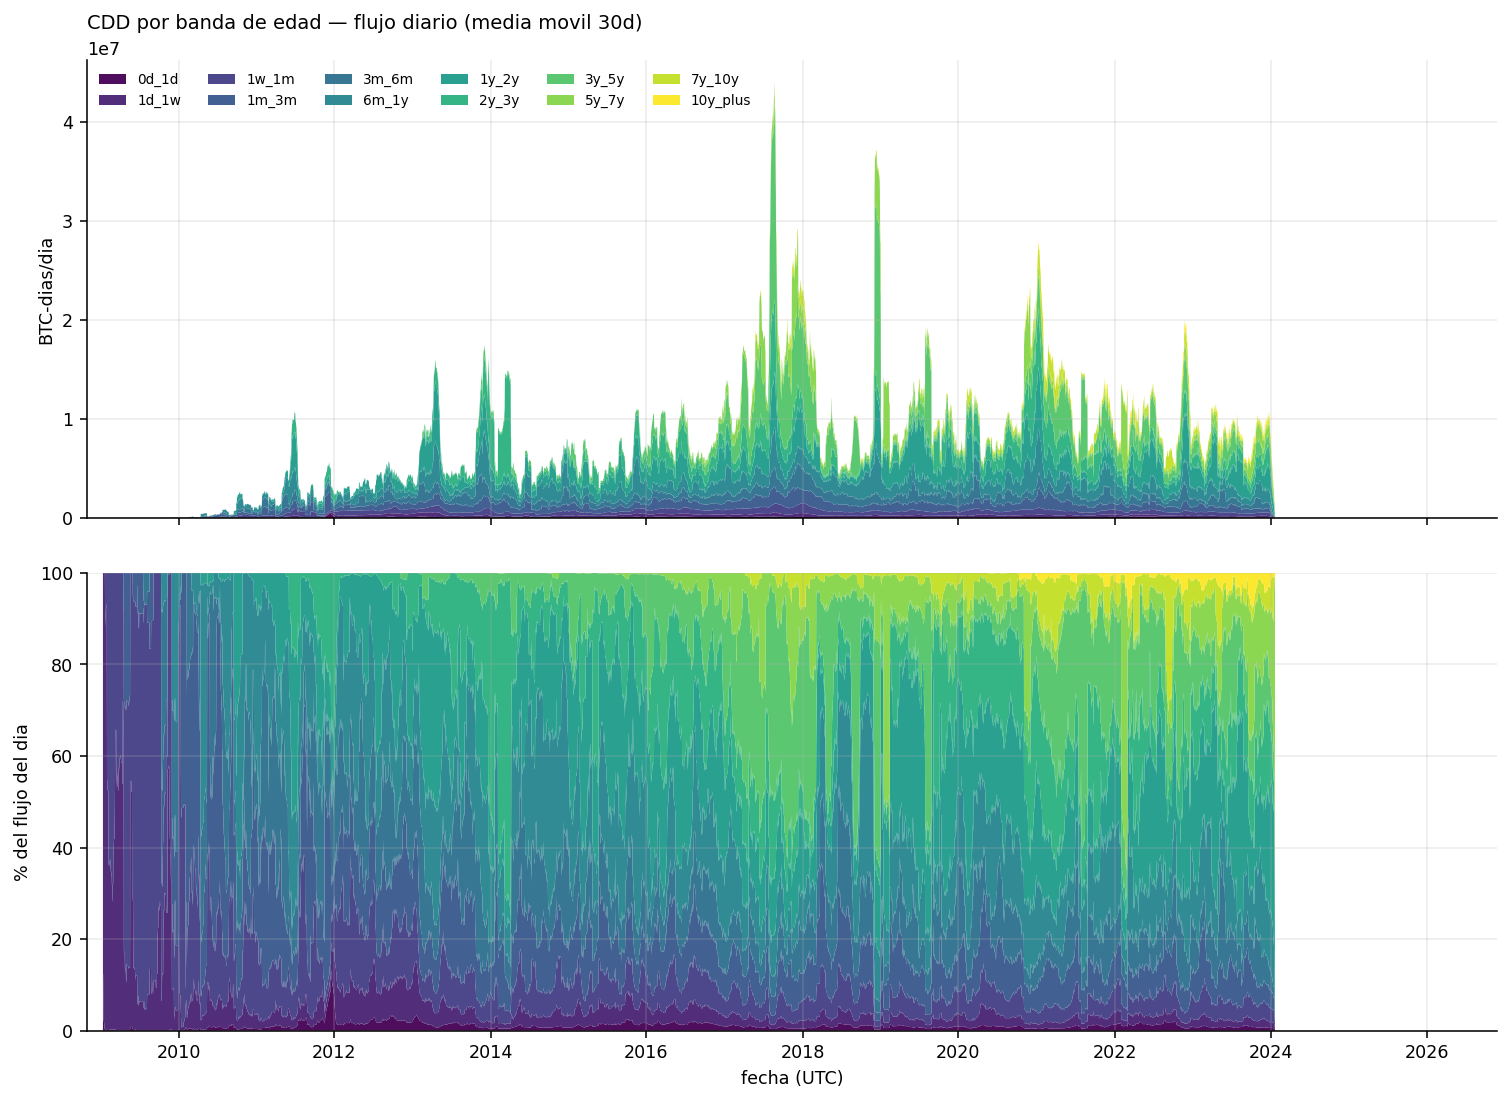
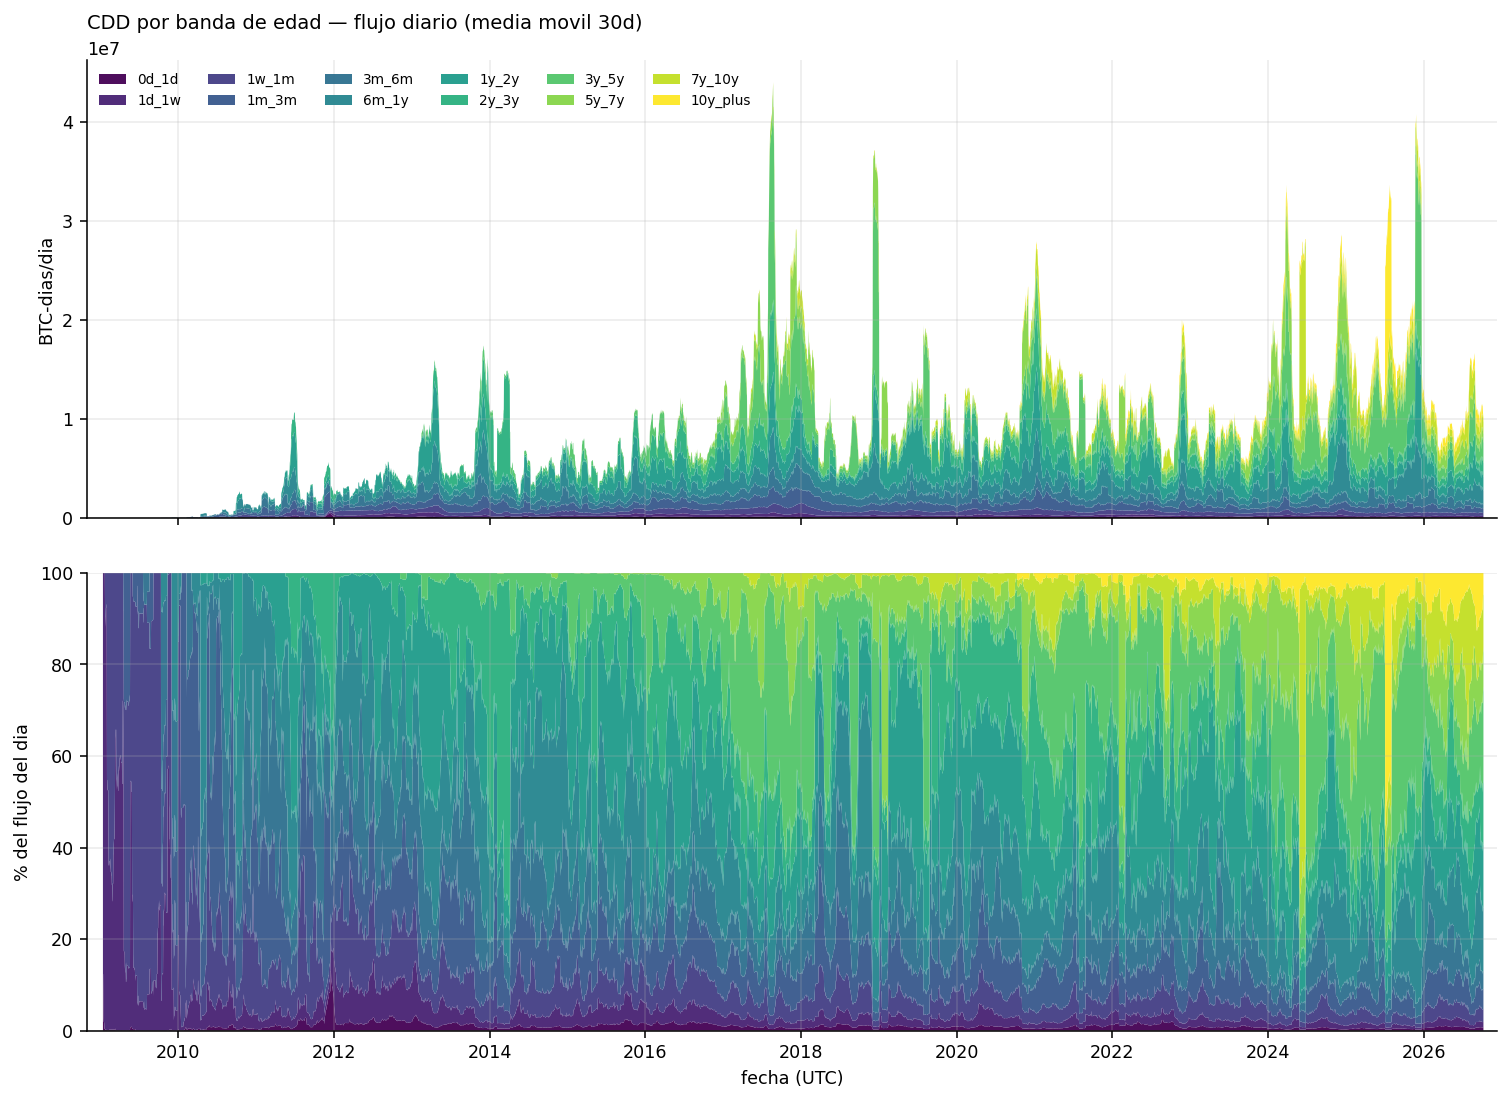
README: figuras del dataset y figuras numeradas
- Regeneradas las figuras del dataset con la cobertura completa (2009-01-03..2026-10-08):
  capa3/graficos/{dashboard_series,spent_por_banda,cdd_por_banda}.png. Las que habia eran del
  29-sep y solo cubrian hasta 2023.
- README.md: nueva seccion "Figuras de las series" dentro del catalogo, con las Figuras 1-3
  (panel 5x5 de las 21 series diarias con su media movil de 7 dias, y las dos areas apiladas por
  banda de edad: valor gastado y CDD). Renumeradas las figuras de la validacion como 4-7 para que
  el orden sea el de aparicion.
- Anadido el paso 5 (figuras de presentacion) al orden de ejecucion.

Las 7 rutas de imagen del README se han comprobado: existen todas.

Changed region(s): [[0.1244, 0.1543, 0.9954, 0.9564], [0.2488, 0.5245, 0.2799, 0.5554], [0.0933, 0.9256, 0.1244, 0.9564]]

diff --git a/README.md b/README.md
@@ -149,6 +149,30 @@ español.
 
 Las 12 bandas y los umbrales 155d/365d son **las definiciones de OBM** (incluidas sus fronteras).
 
+### Figuras de las series
+
+Generadas por `src/exporters/graficos_capa3.py` **desde los CSV de capa3** (no recalculan nada, así
+que las figuras coinciden siempre con lo publicado), con la cobertura completa
+(`2009-01-03`..`2026-10-08`).
+
+![Panel de las 21 series diarias](capa3/graficos/dashboard_series.png)
+
+**Figura 1** — Las 21 series diarias en un panel 5×5. En cada recuadro, la línea clara es el valor
+diario y la oscura su **media móvil de 7 días**; hay escala logarítmica donde el rango abarca
+órdenes de magnitud. En `supply` (oferta en circulación) se ven los cambios de pendiente de los
+halvings (2012, 2016, 2020, 2024). Las 2 tablas anchas de bandas de edad van aparte.
+
+![Valor gastado por banda de edad](capa3/graficos/spent_por_banda.png)
+
+**Figura 2** — Valor gastado por banda de edad (las 12 bandas, de `0d_1d` a `10y_plus`): arriba, el
+flujo diario apilado (media móvil de 30 días); abajo, la misma composición en **porcentaje del
+día**. La rampa de color es **secuencial a propósito**, porque las bandas están ordenadas por edad.
+
+![CDD por banda de edad](capa3/graficos/cdd_por_banda.png)
+
+**Figura 3** — Lo mismo para el **CDD** por banda de edad (`BTC-días`), el flujo que pondera cada
+moneda gastada por el tiempo que estuvo quieta.
+
 ## 5 · Validación frente a OBM
 
 `python3 src/exporters/validar_capa3.py` — comparación día a día contra `obm_reference/metrics`,
@@ -175,25 +199,25 @@ Generadas por `validar_capa3.py` en `capa3/figuras/`.
 
 ![Días con diferencia por serie](capa3/figuras/acuerdo_series.png)
 
-**Figura 1** — Días con diferencia por serie (verde = bit-exacta, rojo = difiere). Las 22 verdes
+**Figura 4** — Días con diferencia por serie (verde = bit-exacta, rojo = difiere). Las 22 verdes
 están a **0 días**; la única roja es `cdd_btcxdays`, con **1 solo día** (invisible a esta escala).
 
 ![utxo_eod_count: diferencia frente a OBM](capa3/figuras/diff_utxo.png)
 
-**Figura 2** — `utxo_eod_count`: diferencia (referencia − capa3) a lo largo del tiempo. El escalón
+**Figura 5** — `utxo_eod_count`: diferencia (referencia − capa3) a lo largo del tiempo. El escalón
 plano de **−2 desde 2010-11-15** es exactamente el ajuste BIP30 (las dos copias de los coinbases
 duplicados), no un error: por eso capa3 lo compensa.
 
 ![CDD: error relativo](capa3/figuras/error_cdd.png)
 
-**Figura 3** — `cdd_btcxdays`: error relativo, escala logarítmica. La mediana está en ~1e-16 (el
+**Figura 6** — `cdd_btcxdays`: error relativo, escala logarítmica. La mediana está en ~1e-16 (el
 límite del `float64`) y los picos son el **último dígito publicado por OBM**: esta serie **no puede
 ser bit-exacta** porque OBM acumula el CDD en coma flotante (hallazgo F2), mientras que aquí se
 calcula con dos acumuladores enteros.
 
 ![Cobertura de la validación](capa3/figuras/cobertura.png)
 
-**Figura 4** — Días comparados por serie: entre **6.459 y 6.463**, porque las series de la
+**Figura 7** — Días comparados por serie: entre **6.459 y 6.463**, porque las series de la
 referencia no tienen todas la misma longitud (el denominador del «22/23» se lee por serie).
 
 ## 6 · Reproducibilidad
@@ -215,6 +239,9 @@ python3 src/exporters/capa3_series.py
 
 # 4) validación frente a la referencia oficial
 python3 src/exporters/validar_capa3.py        # -> capa3/VALIDACION.md + figuras/
+
+# 5) figuras de presentación (opcional; sólo lee los CSV de capa3)
+python3 src/exporters/graficos_capa3.py       # -> capa3/graficos/*.png
 ```
 
 **Mapa del repositorio**
